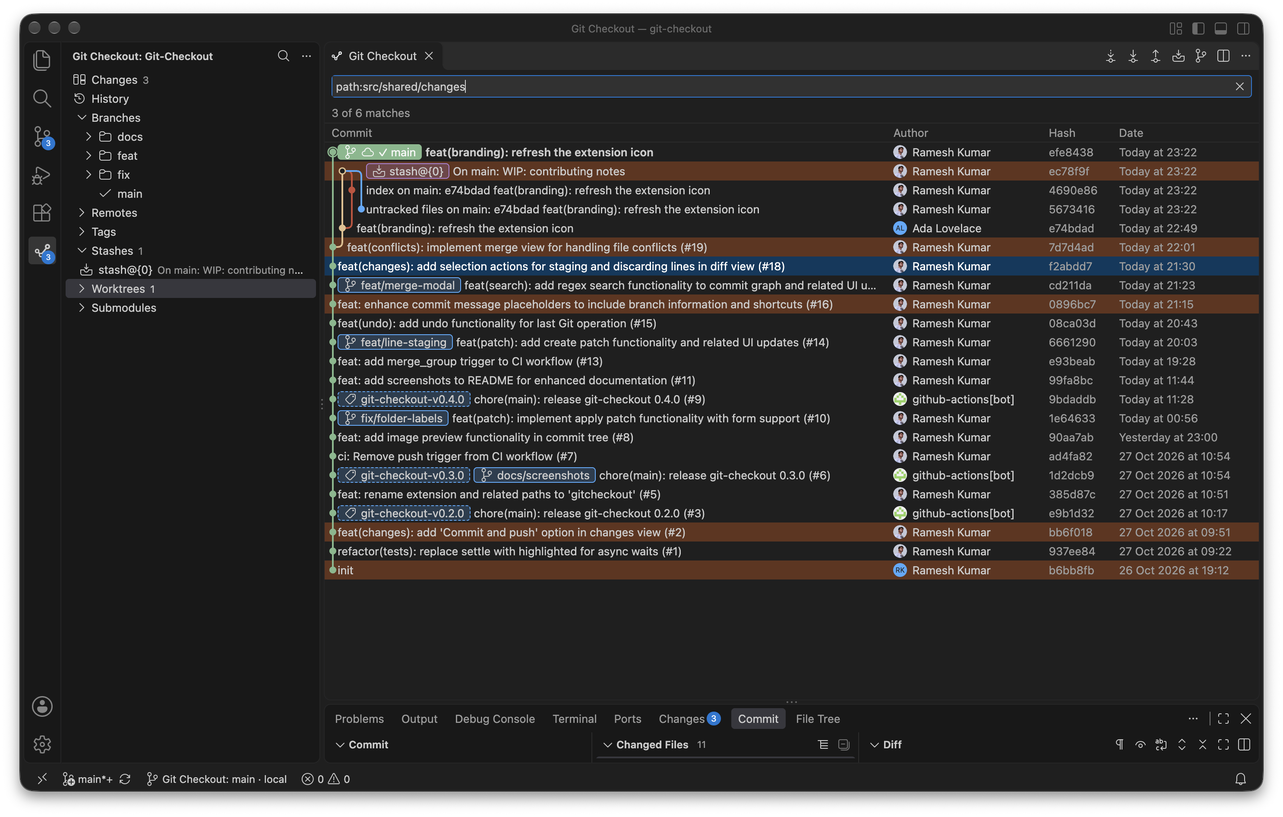
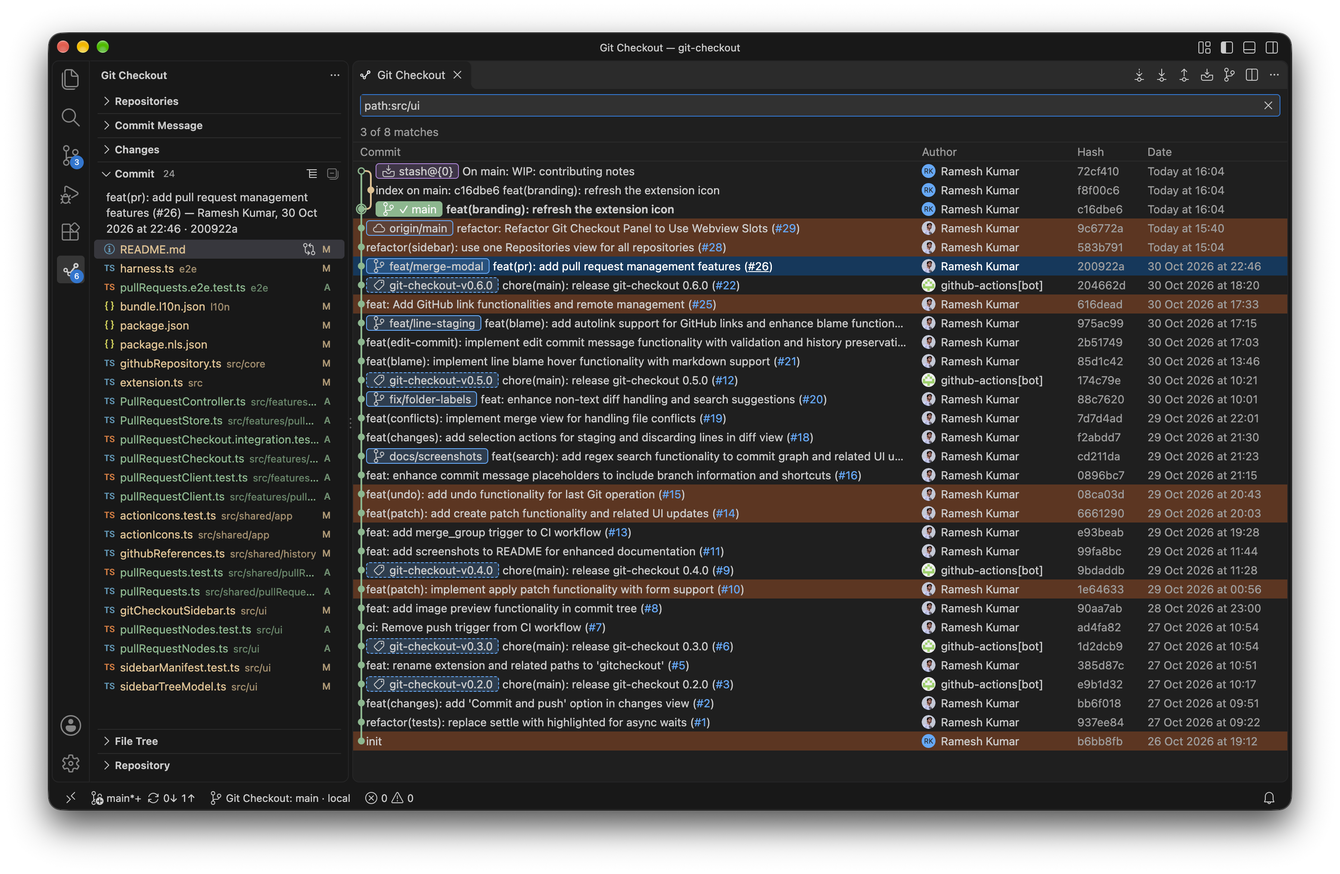
feat(screenshots): enhance Git Checkout functionality and documentation
- Improved demo repository handling in demo-repos.sh to ensure only relevant commits are checked out.
- Updated run.mjs to capture unstaged changes for better demo accuracy.
- Modified window.swift to only capture on-screen windows, preventing blank captures.
- Expanded README.md with detailed features, installation instructions, and usage guidelines for a better user experience.
- Updated screenshots to reflect recent UI changes and added new images for line blame features.
- Adjusted color settings in package.json for improved visibility in dark mode.

diff --git a/.agents/skills/screenshots/scripts/window.swift b/.agents/skills/screenshots/scripts/window.swift
@@ -3,7 +3,8 @@ import CoreGraphics
 import Foundation
 
 let want = Int32(CommandLine.arguments.count > 1 ? CommandLine.arguments[1] : "0") ?? 0
-let list = CGWindowListCopyWindowInfo([.optionAll], kCGNullWindowID) as! [[String: Any]]
+// Only a window that is on screen has anything to capture; the others of the process come out blank.
+let list = CGWindowListCopyWindowInfo([.optionOnScreenOnly], kCGNullWindowID) as! [[String: Any]]
 for window in list {
   let pid = window["kCGWindowOwnerPID"] as? Int32 ?? 0
   let bounds = window["kCGWindowBounds"] as? [String: Any] ?? [:]

diff --git a/README.md b/README.md
@@ -1,32 +1,107 @@
 # Git Checkout
 
-A graphical Git client for VS Code. See your history as a commit graph, stage lines and commit, see who changed each line with Git blame, and handle branches, tags, stashes, worktrees, submodules, interactive rebases and merge conflicts without leaving the editor. It uses VS Code's own look and keys.
+**A graphical Git client that lives in VS Code's sidebar.** See your history as a commit graph, stage the exact lines you mean, find out who changed what, and run branches, pull requests, stashes, worktrees, rebases and merges without leaving the editor. It looks and feels like VS Code, because it is made of VS Code's own views, menus and keys.
 
-![The commit graph with branches, tags and a stash, and the Commit tab beside it](docs/screenshots/01-commit-graph.png)
+[Install from the Marketplace](https://marketplace.visualstudio.com/items?itemName=rkonit.gitcheckout) · [Report an issue](https://github.com/save-workspace-as/git-checkout/issues) · MIT license
 
-Git Checkout runs on the **workspace** side, so Git always runs on the same machine as your folder: local, WSL, SSH, Dev Containers or Codespaces.
+![The commit graph in the main area, with the commit's changed files in the sidebar](docs/screenshots/01-commit-graph.png)
 
-## Features
+## Get started in a minute
 
-- **Commit graph:** search, filter by the active branch, jump to HEAD, hide stashes, remote branches or tags, and show the reflog. The search takes filters: `author:ada`, `path:src/app.ts`, `since:2024-01-01`, `until:2024-06-30` and `content:text` (commits that add or remove that text) and `regex:pattern` (commits with a changed line that matches the pattern), alone or with words to look for.
-- **Background fetch:** every open repository is fetched on a timer, so the graph shows what others pushed. It waits while the window is in the background or a merge or rebase is in progress, and it never asks for a password.
-- **Changes:** stage, unstage and discard files, whole hunks, or just the lines you select in the diff (drag over them, or click line numbers; in a side-by-side diff a drag stays on one side), commit, amend, and commit and push, with inline diffs.
+1. Install **Git Checkout** and open a folder that is a Git repository.
+2. Click the **Git Checkout** icon in the Activity Bar. Your repositories, your changes and your branches are all in its sidebar.
+3. Click a repository to open its commit graph in the main area, then click any commit to see the files it changed.
+4. Press **Ctrl+P** (**Cmd+P** on macOS) while a Git Checkout view has focus to run any action from one list.
+
+To clone, press **Ctrl+N** (**Cmd+Shift+N**), choose **Clone Repository…** in the empty sidebar, or run **Clone…** from Quick Launch.
+
+## A sidebar for the whole repository
+
+Everything sits in one container, top to bottom, and each part folds away. Anything that needs width, such as a diff, opens as a tab in the main area, like a file does.
+
+| Section | What it holds |
+| --- | --- |
+| **Repositories** | Every repository of the workspace, with its branch and how far it is from its upstream. Pick one and all the sections below follow it. Right-click for fetch, pull, push, stash, undo, patches, settings and more. |
+| **Commit Message** | The box you commit from, with Amend, Commit, Commit and push, and a button that writes a message with AI. |
+| **Changes** | What is staged and what is not, as two groups. Click a file to open its diff. |
+| **Commit** | The files the commit selected in the graph changed. |
+| **File Tree** | The repository as it was at that commit, with a preview of any file. |
+| **Repository** | Branches, remotes, tags, stashes, worktrees and submodules, each with its own right-click menu. A search filters all of them. |
+| **Pull Requests** | The open pull requests of a GitHub repository, when there is one. |
+
+## See your whole history
+
+![The graph filtered to one folder, with the matching commits](docs/screenshots/02-graph-search.png)
+
+- **A graph you can read:** branches, tags, stashes and remote branches, with authors' pictures. Hide any of them, follow only the active branch, jump to HEAD, or show the reflog.
+- **Search that understands Git:** words, or filters such as `author:ada`, `path:src/app.ts`, `since:2024-01-01`, `until:2024-06-30`, `content:text` (commits that add or remove that text) and `regex:pattern`.
+- **Background fetch:** every open repository is fetched on a timer, so the graph shows what others pushed. It waits while a merge or rebase is under way, and it never asks for a password.
+- **History tools:** file, folder and hunk history, cherry-pick, revert, reset, patches, archives of any commit, and bisect.
+
+## Stage exactly what you mean
+
+![A diff with two lines selected and the Stage and Discard buttons](docs/screenshots/13-stage-lines.png)
+
+- **Files, hunks or single lines:** stage, unstage or discard a whole file, one hunk, or only the lines you select in the diff. Drag over them, or click line numbers.
+- **Commit, amend, commit and push:** one box for the message, with a hint when the subject runs long.
+- **Edit any commit's message:** right-click a commit and choose **Edit Commit Message…**. The commits after it are replayed with the same changes, authors and dates, and local changes are kept. It warns when a remote branch already has the commit.
+- **Diffs that open like files:** each change opens in a tab, with options for whitespace, wrapping, context, full file and side by side in the tab's title bar.
+
+## Know who changed every line
+
+![Blame at the end of the cursor line, with its hover card: the author picture, the message and actions](docs/screenshots/14-line-blame.png)
+
+- **Inline and status bar blame:** who last changed the line you are on, in faint text at its end and in the status bar. Hover it for the commit message with its issues and pull requests linked, the author's picture, and quick actions: show the commit in the graph, copy its hash, open the change, see the line's history, or open it on GitHub.
+- **File blame and CodeLens:** toggle a column that shows who changed each run of lines, tinted from warm for recent to cool for old. Optional CodeLens above a file, class or function says who changed it last.
+
+![File blame in the gutter, and the CodeLens above the file](docs/screenshots/15-file-blame.png)
+
+- **Step back in time:** blame a line as it was before the change that last touched it. Commits listed in `.git-blame-ignore-revs`, such as a mass reformat, are skipped, as on GitHub.
+- **Issue trackers:** `gitCheckout.autolinks` links `JIRA-123` style references in messages. The names match GitLens's, so those entries can be copied.
+- **A whole file's story:** open the Blame view of a file from the File Tree, or its history (renames followed), from the right-click menu.
+
+![The history of a file, with the diff of each commit](docs/screenshots/08-file-history.png)
+
+## Pull requests, without leaving the editor
+
+- **A section in the sidebar:** for a repository on GitHub, **Pull Requests** lists the open ones as *Created by me*, *Waiting for my review* and *All open*, with a badge for how their checks stand.
+- **Check one out:** right-click a pull request to check it out (as the branch `pr/<number>`, through the same checkout as any branch), check it out in a worktree, review what it changes against its target branch, open it on GitHub, or copy its link.
+- **Quiet by default:** it uses your GitHub sign-in in VS Code, asks only for what a public repository needs and asks again for private ones, and can be turned off with `gitCheckout.pullRequests.enabled`.
+- **Open on GitHub:** right-click a file for Open File on GitHub and Copy GitHub Link to File (to the selected lines), or a commit in the graph for Open Commit on GitHub. In the sidebar, **Open Remote in Browser** works for SSH and HTTPS remotes alike, and for hosts other than GitHub.
+
+## Branches, tags, stashes, worktrees and submodules
+
 - **Branches, tags and remotes:** create, check out, rename, delete, merge, rebase, fast-forward, compare, and set upstreams.
-- **Clone:** clone a repository into a folder you choose, with a progress notification you can cancel.
+- **Stashes:** save, apply, pop and drop.
+- **Worktrees:** add, open and delete, or check a branch or pull request out into one.
+- **Submodules:** add, initialize, update and sync.
 - **Fetch, pull and push:** a form for the options, or Quick Fetch, Quick Pull and Quick Push for the tracked remote.
-- **Stashes, worktrees and submodules:** save, apply, pop and drop stashes; add, open and delete worktrees; initialize, update and sync submodules.
-- **Inline and status bar blame:** who last changed the line you are on, in faint text at its end and in the status bar. Hover it for the commit message with its issues and pull requests linked, the author's picture, and actions to show the commit in the graph, copy its hash, open the change the commit made, see the line's history or open it on GitHub.
-- **Pull requests:** for a repository on GitHub, a Pull Requests section in the sidebar lists the open pull requests as Created by me, Waiting for my review and All open. Right-click one to check it out (as the branch `pr/<number>`, through the same checkout as any branch), check it out in a worktree, open it on GitHub, copy its link, or refresh the list. It uses your GitHub sign-in in VS Code, asks only for what a public repository needs and asks again for private ones, and can be turned off with `gitCheckout.pullRequests.enabled`.
-- **Open on GitHub:** right-click a file in the editor or the Explorer for Open File on GitHub and Copy GitHub Link to File, which link to the selected lines (on the commit once a remote has it, otherwise on the branch). Right-click a commit in the graph for Open Commit on GitHub and Copy GitHub Link to Commit. Quick Launch also has Open Repository on GitHub. In the sidebar, right-click a remote and choose Open Remote in Browser: it works for SSH and HTTPS addresses alike, and for other hosts than GitHub.
-- **File blame and CodeLens:** Toggle File Blame (editor right-click menu, or Quick Launch) shows who changed each run of lines and when in a column left of the code, tinted from warm for recent changes to cool for old ones; hover a line's text for its commit. Git CodeLens (off by default; Toggle Git CodeLens) puts who last changed a file, class or function above it, and how many people wrote it.
-- **Edit any commit's message:** right-click a commit in the graph and choose Edit Commit Message…. A form shows the whole message; the commits after it are replayed with the same changes, authors and dates, and local changes are kept. It warns when a remote branch already has the commit, and stops for a commit on another branch or one followed by a merge.
-- **History tools:** file, folder and hunk history, a blame view that shows who last changed each line of a commit's change, cherry-pick, revert, reset, patches, archives (zip or tarball of any commit, branch or tag), and bisect.
-- **Housekeeping:** prune stale remote-tracking branches, delete merged branches, clean untracked files, sparse checkout, garbage collection, and repository statistics, all from Quick Launch.
-- **Pull requests:** open GitHub's new pull request page for a branch.
-- **Interactive rebase and merge conflicts:** reorder, squash, fix up, reword and drop commits. A conflicted file in the Changes tab can be resolved in a Merge modal that shows the incoming and current sides next to the result, with one click to take a side, the other or both for each conflict (or for all of them) or single lines by their numbers, and a result you can type in. Ctrl+Alt with the Up and Down arrows moves the bar between the sides and the result. The same file also opens in VS Code's merge editor.
+
+## Rebase and resolve with confidence
+
+![The Merge modal on a conflict, with the incoming and current sides and the result](docs/screenshots/12-merge-conflict.png)
+
+- **Interactive rebase:** reorder, squash, fix up, reword and drop commits.
+- **A real merge view:** a conflicted file in the Changes list opens a Merge modal that shows the incoming and current sides next to the result. Take a side, the other or both for each conflict, or for all of them, or single lines by their numbers, or type the result. The same file also opens in VS Code's merge editor.
+
+## Look at any commit, any file
+
+![A file tree at a commit with a picture previewed](docs/screenshots/06-image-preview.png)
+
+- **File Tree:** browse the repository as it was at the selected commit, and preview any file, pictures included.
+- **Image diffs:** the old and the new picture, side by side.
+- **Quick Launch:** one list of every repository action, plus your own commands. Press **Ctrl+P** (**Cmd+P**).
+
+![Quick Launch over the graph](docs/screenshots/10-quick-launch.png)
+
+## And the rest
+
+- **Housekeeping:** prune stale remote-tracking branches, delete merged branches, clean untracked files, sparse checkout, garbage collection, and repository statistics, from Quick Launch.
 - **Git Flow and commit signing.**
-- **Quick Launch:** one list of every repository action, plus your own commands.
+- **External diff and merge tools**, off until you turn them on.
 - **Keyboard shortcuts** for every common action, which you can turn off or rebind.
+- **Your own commands** in Quick Launch, with placeholders for the branch, file, URL and more.
+- **Works anywhere your folder is:** Git Checkout runs on the workspace side, so Git always runs on the same machine as your folder: local, WSL, SSH, Dev Containers or Codespaces.
 
 ## Requirements
 
@@ -34,48 +109,73 @@ Git Checkout runs on the **workspace** side, so Git always runs on the same mach
 - The built-in **Git** extension turned on. Do not set `git.enabled` to false; Git Checkout uses it for credentials and `git.path`.
 - A Git installation on the machine that holds your folder.
 
-## Getting started
-
-1. Open a folder that is a Git repository.
-2. Click the Git Checkout icon in the Activity Bar, or run **Git Checkout: Open** from the Command Palette.
-3. Press **Ctrl+P** (**Cmd+P** on macOS) while a Git Checkout view has focus to run any action.
-
-To clone, press **Ctrl+N** (**Cmd+Shift+N**), choose **Clone Repository…** in the empty sidebar, or run **Clone…** from Quick Launch.
-
 ## Settings
+
+### Graph
 
 | Setting | Default | What it does |
 | --- | --- | --- |
-| `gitCheckout.shortcuts.enabled` | on | Turns the Git Checkout keyboard shortcuts on or off. |
 | `gitCheckout.graph.order` | `date` | Commit order in the graph. |
 | `gitCheckout.graph.showStashes` | on | Show stashes in the graph. |
 | `gitCheckout.graph.showRemoteBranches` | on | Show remote-tracking branches in the graph. |
 | `gitCheckout.graph.showTags` | on | Show tags in the graph. |
 | `gitCheckout.graph.showReflog` | off | Show commits that only the reflog reaches. A repository can override this. |
-| `gitCheckout.fetch.includeTags` | off | Fetch all tags on every fetch and auto-fetch. |
-| `gitCheckout.commit.pushAfterCommit` | off | Push after every commit from the Changes view (not after an amend). |
-| `gitCheckout.commit.subjectWarningLength` / `subjectLengthLimit` | 50 / 70 | Hint and mark when the commit subject is longer; 0 turns it off. |
-| `gitCheckout.checkout.updateSubmodules` | on | Update submodules after a checkout. |
-| `gitCheckout.clone.defaultFolder` | empty | Folder Clone Repository starts in. |
-| `gitCheckout.branch.rememberCheckout` | on | Create Branch remembers whether it last checked out the new branch. |
-| `gitCheckout.diff.syntaxHighlighting` / `changeMarks` | on / on | Color code in diffs; show + and − beside changed lines. |
 | `gitCheckout.graph.compactBranchLabels` | on | Show a branch and its remote-tracking branches as one label. |
-| `gitCheckout.autolinks` | empty | Links for an issue tracker's references in commit messages. Each entry has a `prefix` (`JIRA-`) and a `url` with `<num>` for the number (`https://jira.example.com/browse/JIRA-<num>`), and optionally `ignoreCase` and `alphanumeric`. The names match GitLens's `autolinks`, so those entries can be copied. Reopen the Git Checkout window after changing it. |
-| `gitCheckout.pullRequests.enabled` | on | List the open pull requests of a GitHub repository in the sidebar. Turn it off to hide the section and stop asking GitHub. |
-| `gitCheckout.blame.inline.enabled` | on | Show who last changed the cursor's line at its end, unless `git.blame.editorDecoration.enabled` is on. Turn it on or off with Toggle Inline Blame in Quick Launch. |
-| `gitCheckout.blame.inline.format` | `{author}, {date} • {summary}` | What that text says. Use `{author}`, `{date}`, `{datetime}`, `{summary}` and `{hash}`. |
-| `gitCheckout.blame.file.format` | `{author}, {date}` | What the file blame column says for each run of lines. |
-| `gitCheckout.codeLens.enabled` | off | Show the CodeLens for who changed a file, class or function last. |
-| `gitCheckout.blame.hover.over` | annotation | Hover only the blame text, or anywhere on the line (`line`). |
-| `gitCheckout.blame.statusBar.enabled` | on | Show the same in the status bar. VS Code's Git extension has its own (`git.blame.statusBarItem.enabled`, on by default); while that is on, this one stays hidden so the status bar does not say it twice. |
 | `gitCheckout.graph.githubAvatars` | on | Show authors' GitHub profile pictures for repositories on GitHub. Asks github.com which account made a commit, once per author. |
 | `gitCheckout.graph.gravatar` | off | Show Gravatar images for authors. This sends a hash of each author's email to gravatar.com. |
-| `gitCheckout.branch.nameSeparator` | `/` | Separator used when a new branch name is prefilled from the current branch. |
-| `gitCheckout.leanBranching.stashOnSwitch` | off | Stash a dirty working tree before checkout or pull, and pop it afterward. |
-| `gitCheckout.git.skipHooks` | off | Pass `--no-verify` to commit and push. |
-| `gitCheckout.network.timeoutMs` | 300000 | Timeout for fetch, pull and push. |
+
+### Fetching and cloning
+
+| Setting | Default | What it does |
+| --- | --- | --- |
 | `gitCheckout.autoFetch.enabled` | on | Fetch every open repository in the background. |
 | `gitCheckout.autoFetch.intervalSeconds` | 180 | Seconds between background fetches (30 or more). |
+| `gitCheckout.fetch.includeTags` | off | Fetch all tags on every fetch and auto-fetch. |
+| `gitCheckout.clone.defaultFolder` | empty | Folder Clone Repository starts in. |
+| `gitCheckout.network.timeoutMs` | 300000 | Timeout for fetch, pull and push. |
+
+### Committing and branching
+
+| Setting | Default | What it does |
+| --- | --- | --- |
+| `gitCheckout.commit.pushAfterCommit` | off | Push after every commit from the Changes view (not after an amend). |
+| `gitCheckout.commit.subjectWarningLength` / `subjectLengthLimit` | 50 / 70 | Hint and mark when the commit subject is longer; 0 turns it off. |
+| `gitCheckout.branch.rememberCheckout` | on | Create Branch remembers whether it last checked out the new branch. |
+| `gitCheckout.branch.nameSeparator` | `/` | Separator used when a new branch name is prefilled from the current branch. |
+| `gitCheckout.checkout.updateSubmodules` | on | Update submodules after a checkout. |
+| `gitCheckout.leanBranching.stashOnSwitch` | off | Stash a dirty working tree before checkout or pull, and pop it afterward. |
+| `gitCheckout.git.skipHooks` | off | Pass `--no-verify` to commit and push. |
+
+### Diffs
+
+| Setting | Default | What it does |
+| --- | --- | --- |
+| `gitCheckout.diff.syntaxHighlighting` / `changeMarks` | on / on | Color code in diffs; show + and − beside changed lines. |
+
+### Blame and CodeLens
+
+| Setting | Default | What it does |
+| --- | --- | --- |
+| `gitCheckout.blame.inline.enabled` | on | Show who last changed the cursor's line at its end, unless `git.blame.editorDecoration.enabled` is on. Turn it on or off with Toggle Inline Blame in Quick Launch. |
+| `gitCheckout.blame.inline.format` | `{author}, {date} • {summary}` | What that text says. Use `{author}`, `{date}`, `{datetime}`, `{summary}` and `{hash}`. |
+| `gitCheckout.blame.statusBar.enabled` | on | Show the same in the status bar. VS Code's Git extension has its own (`git.blame.statusBarItem.enabled`, on by default); while that is on, this one stays hidden so the status bar does not say it twice. |
+| `gitCheckout.blame.hover.over` | annotation | Hover only the blame text, or anywhere on the line (`line`). |
+| `gitCheckout.blame.file.format` | `{author}, {date}` | What the file blame column says for each run of lines. |
+| `gitCheckout.codeLens.enabled` | off | Show the CodeLens for who changed a file, class or function last. |
+| `gitCheckout.blame.ignoreRevs` | on | Leave the commits listed in the repository's `.git-blame-ignore-revs` file out of blame, so a bulk change such as a reformat does not hide who wrote the code. GitHub does the same. |
+
+### GitHub and issue trackers
+
+| Setting | Default | What it does |
+| --- | --- | --- |
+| `gitCheckout.pullRequests.enabled` | on | List the open pull requests of a GitHub repository in the sidebar. Turn it off to hide the section and stop asking GitHub. |
+| `gitCheckout.autolinks` | empty | Links for an issue tracker's references in commit messages. Each entry has a `prefix` (`JIRA-`) and a `url` with `<num>` for the number (`https://jira.example.com/browse/JIRA-<num>`), and optionally `ignoreCase` and `alphanumeric`. The names match GitLens's `autolinks`, so those entries can be copied. Reopen the Git Checkout window after changing it. |
+
+### Other
+
+| Setting | Default | What it does |
+| --- | --- | --- |
+| `gitCheckout.shortcuts.enabled` | on | Turns the Git Checkout keyboard shortcuts on or off. |
 | `gitCheckout.watch.debounceMs` | 200 | How long to coalesce Git file-watch events. |
 | `gitCheckout.externalDiff.enabled`, `gitCheckout.externalMerge.enabled` | off | Allow the external diff and merge tools described below. |
 | `gitCheckout.customCommands` | none | Your own commands for Quick Launch. |

diff --git a/.agents/skills/screenshots/SKILL.md b/.agents/skills/screenshots/SKILL.md
@@ -22,25 +22,25 @@ Flags:
 - `--author "Name|email"` makes the demo commits by that person. The default is the latest author in the history who is not a bot, so the graph shows their real GitHub picture.
 - `--keep-open` leaves the VS Code windows up, for looking at them.
 
-Requirements: macOS with the screen unlocked and awake (a locked screen cannot be captured, and the script stops with a message), `swiftc`, Node 20+, and network for the avatars and the first VS Code download. It opens its own VS Code windows and drives them over DevTools, so no browser is needed; do not touch the keyboard or mouse while it runs, and it takes a few minutes.
+Requirements: macOS with the screen unlocked and awake (a locked screen cannot be captured, and the script stops with a message; `caffeinate -dimsu -t 1800` in another terminal keeps it from sleeping, though not from locking), `swiftc`, Node 20+, and network for the avatars and the first VS Code download. It opens its own VS Code windows, opens and folds the sidebar sections by name, and drives them over DevTools, so no browser is needed; do not touch the keyboard or mouse while it runs, and it takes a few minutes.
 
 ## The shots
 
 | id | file | shows |
 | --- | --- | --- |
-| 01 | `01-commit-graph.png` | The graph with a commit selected, bottom panel drawn down to its tab bar |
+| 01 | `01-commit-graph.png` | The graph with a commit selected, and the Repositories and Commit sections of the sidebar open |
 | 02 | `02-graph-search.png` | The graph search with a `path:` filter and its matches |
-| 03 | `03-stage-and-unstage.png` | The Changes tab, panel maximized |
-| 04 | `04-commit-details.png` | A commit's details and files, panel maximized |
-| 05 | `05-file-tree.png` | The File Tree tab |
-| 06 | `06-image-preview.png` | A picture previewed in the File Tree |
+| 03 | `03-stage-and-unstage.png` | The Commit Message and Changes sections, and the diff of a change open as a tab beside the graph |
+| 04 | `04-commit-details.png` | A commit's changed files in the sidebar, and the diff of the first one as a tab |
+| 05 | `05-file-tree.png` | The File Tree section of the sidebar |
+| 06 | `06-image-preview.png` | A picture previewed as a tab, picked in the File Tree |
 | 07 | `07-image-diff.png` | The old and new icon in a commit's diff |
 | 08 | `08-file-history.png` | The History modal of a file with 3 to 4 commits |
 | 09 | `09-blame.png` | The Blame modal |
 | 10 | `10-quick-launch.png` | Quick Launch over the graph |
 | 11 | `11-interactive-rebase.png` | The Interactive Rebase modal, onto `HEAD~4` |
-| 12 | `12-merge-conflict.png` | The Merge modal on a conflict, panel hidden |
-| 13 | `13-stage-lines.png` | Two selected lines with the Stage and Discard Changes buttons |
+| 12 | `12-merge-conflict.png` | The Merge modal on a conflict |
+| 13 | `13-stage-lines.png` | Two selected lines in the diff tab, with the Stage and Discard Changes buttons |
 | 14 | `14-line-blame.png` | A file with blame at the end of the cursor line and its hover (avatar, message, actions) |
 | 15 | `15-file-blame.png` | The same file with blame for every line in the gutter, tinted by age, and the CodeLens above its functions |
 
@@ -51,7 +51,7 @@ A new feature that deserves a picture: add a block to `scripts/run.mjs` after th
 Open each picture before you hand it over. Look for:
 
 - the title is "Git Checkout — git-checkout" (not "[Extension Development Host]"), and the traffic lights are there;
-- no modal is cut off by the bottom panel, and none has an outline around the whole dialog;
+- no modal is cut off, and none has an outline around the whole dialog;
 - no error toast, no leftover search text, no folder path from `/tmp` in the sidebar (the Worktrees section is folded for that);
 - avatars are real GitHub pictures, not initials, and round without a colored edge;
 - the shot shows what its row says, and nothing from your own work (the demo repository is a copy, never this one).
